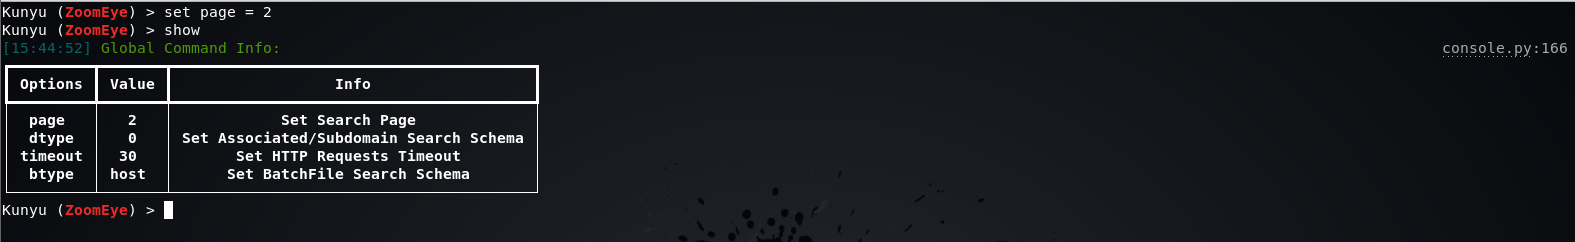
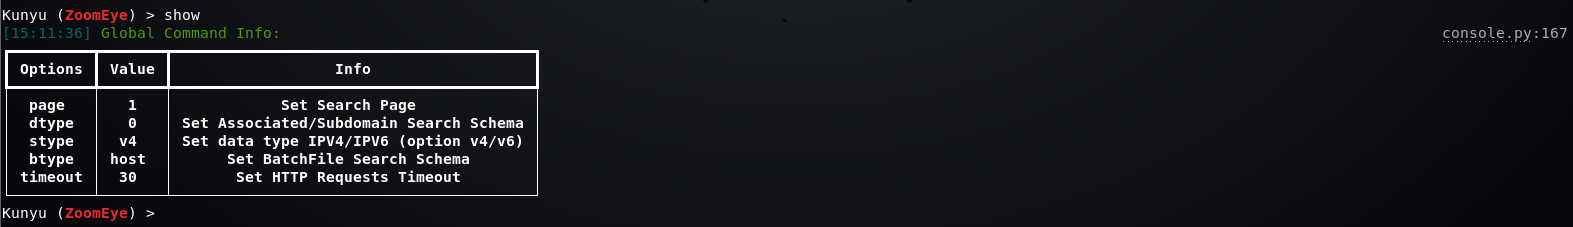
Update Kunyu Version V1.6.1

diff --git a/kunyu/core/zoomeye.py b/kunyu/core/zoomeye.py
@@ -49,6 +49,7 @@ class ZoomeyeSearch(object):
     def __init__(self, method):
         self.auth = None
         self.search = None
+        self.stype = None
         self.page = 1
         self.method = method
         self.headers = {
@@ -61,6 +62,7 @@ class ZoomeyeSearch(object):
             nonlocal func
             req_list = []
             login_url = func(self, *args, **kwargs)
+            params["sub_type"] = self.stype
             try:
                 for num in range(int(self.page)):
                     params['query'], params['page'] = self.search, (num + 1)
@@ -133,7 +135,7 @@ class ZoomeyeSearch(object):
 
 # After the SDK public,The interface to get the data.
 @ZoomeyeSearch(method="GET")
-def _dork_search(self, url, search, page):
+def _dork_search(self, url, search, page, sub_type):
     """"The logic layer of ZoomEye processes the requested data
         and feeds it back to the request layer to obtain the original data
     """
@@ -142,6 +144,7 @@ def _dork_search(self, url, search, page):
             raise ArithmeticError
         self.page = page
         self.search = search
+        self.stype = sub_type.lower()
         return url
 
     except ArithmeticError:
@@ -169,9 +172,11 @@ class ZoomEye:
     from kunyu.config.setting import ZOOMEYE_FIELDS_HOST, ZOOMEYE_FIELDS_WEB, ZOOMEYE_FIELDS_INFO, ZOOMEYE_FIELDS_DOMAIN
     from kunyu.utils.convert import convert
     raw_data_params = {}
+    ssl_data_params = {}
     sensitive_params = []
     page = 1
     dtype = 0
+    stype = "v4"
     btype = "host"
     timeout = 30
 
@@ -188,7 +193,7 @@ class ZoomEye:
         HostCrash <IP> <Domain>                   Host Header Scan hidden assets
         Seebug <query>                            Search Seebug vulnerability information
         set <option>                              Set Global arguments values
-        view <ID>                                 Look over banner row data information
+        view/views <ID>                           Look over banner row data information
         SearchKeyWord                             Query sensitive information by keyword
         Pocsuite3                                 Invoke the pocsuite component
         ExportPath                                Returns the path of the output file
@@ -199,8 +204,8 @@ class ZoomEye:
 
     # ZoomEye Command List
     Command_Info = ["help", "info", "set", "Seebug", "SearchWeb", "SearchHost", "SearchIcon", "HostCrash", "SearchBatch",
-                    "SearchCert", "SearchDomain", "EncodeHash", "Pocsuite3", "ExportPath", "show", "clear", "view", "SearchKeyWord",
-                    "exit"]
+                    "SearchCert", "SearchDomain", "EncodeHash", "Pocsuite3", "ExportPath", "show", "clear", "view", "views",
+                    "SearchKeyWord", "exit"]
 
     def __init__(self):
         self.fields_tables = None
@@ -212,6 +217,7 @@ class ZoomEye:
             :param types: Dynamically set according to the interface used
         """
         self.raw_data_params.clear()
+        self.ssl_data_params.clear()
         self.sensitive_params.clear()
         GlobalVar.set_timeout_resp(self.timeout)
         table = Table(show_header=True, style="bold")
@@ -238,17 +244,21 @@ class ZoomEye:
             return logger.warning("Please enter the correct field")
 
         # Get data information
-        for result in _dork_search(api_url, search, self.page):
+        for result in _dork_search(api_url, search, self.page, self.stype):
             try:
                 total = result['total']
                 webapp_name, server_name, db_name, system_os, language = "", "", "", "", ""
                 for i in range(len(result[result_type])):
                     num += 1
-                    title, lat, lon = "", "", ""
+                    title, data_isp = "", ""
                     data = self.convert(result[result_type][i])
                     if api_url == HOST_SEARCH_API:
                         if data.portinfo.title:
                             title = data.portinfo.title[0]
+                        try:
+                            data_isp = data.geoinfo.isp
+                        except:
+                            pass
                         """
                         if data.geoinfo.location:
                             lat = data.geoinfo.location.lat
@@ -256,16 +266,23 @@ class ZoomEye:
                         """
                         # Set the output field
                         table.add_row(str(num), data.ip, str(data.portinfo.port), str(data.portinfo.service),
-                                      str(data.portinfo.app), str(data.geoinfo.isp), str(data.geoinfo.country.names.en),
+                                      str(data.portinfo.app), str(data_isp), str(data.geoinfo.country.names.en),
                                       str(data.geoinfo.city.names.en), str(title), str(data.timestamp).split("T")[0])
 
                         # Set the exported fields
                         export_host = [str(num), data.ip, str(data.portinfo.port), str(data.portinfo.service),
-                                       str(data.portinfo.app), str(data.geoinfo.isp), str(data.geoinfo.country.names.en),
+                                       str(data.portinfo.app), str(data_isp), str(data.geoinfo.country.names.en),
                                        str(data.geoinfo.city.names.en), str(title), str(data.timestamp).split("T")[0]]
 
                         # Reset the <raw Data Params> element
                         self.raw_data_params[num] = data.portinfo.banner
+
+                        # Reset the <ssl raw Data Params> element
+                        try:
+                            ssl_raw_data = data.ssl
+                            self.ssl_data_params[num] = ssl_raw_data
+                        except:
+                            pass
 
                         # Get the sensitive information in the banner
                         sensitive = SearchKeyWord().get_keyword_sensitive(data.portinfo.banner)
@@ -300,6 +317,13 @@ class ZoomEye:
 
                         # Reset the <raw Data Params> element
                         self.raw_data_params[num] = data.raw_data
+
+                        # Reset the <ssl raw Data Params> element
+                        try:
+                            ssl_raw_data = data.ssl
+                            self.ssl_data_params[num] = ssl_raw_data
+                        except:
+                            pass
 
                         # Get the sensitive information in the banner
                         sensitive = SearchKeyWord().get_keyword_sensitive(data.raw_data)
@@ -483,10 +507,34 @@ class ZoomEye:
             else:
                 console.log("Banner Information is:\n", style="green")
                 console.print(raw_data)
-
+                print()
         except ArithmeticError:
             logger.warning("No retrieval operation is performed or the length of the dictionary key value is exceeded")
             return
+
+    @classmethod
+    # look over ssl row_data info
+    def command_views(cls, serial):
+        """
+            View ssl raw data information
+            You can views any ssl raw data by entering the serial number
+            :param serial): Please enter serial number ID
+        """
+        try:
+            # If the key parameter is not specified, the key parameter is automatically set to 1
+            serials = 1 if serial is "" else serial
+            ssl_raw_data = cls.ssl_data_params.get(int(serials))
+            # Check whether the returned result is None
+            if ssl_raw_data is None:
+                raise ArithmeticError
+            else:
+                console.log("SSL Banner Information is:\n", style="green")
+                console.print(ssl_raw_data)
+                print()
+        except ArithmeticError:
+            logger.warning("SSL Banner information is empty")
+            return
+        pass
 
     @classmethod
     def command_searchkeyword(cls, *args, **kwargs):

diff --git a/kunyu/core/console.py b/kunyu/core/console.py
@@ -157,8 +157,9 @@ class BaseInterpreter(object):
                 )
             command_info = [["page", self.getter("page"),"Set Search Page"],
                             ["dtype", self.getter("dtype"), "Set Associated/Subdomain Search Schema"],
-                            ["timeout", self.getter("timeout"), "Set HTTP Requests Timeout"],
-                            ["btype", self.getter("btype"), "Set BatchFile Search Schema"]]
+                            ["stype", self.getter("stype"), "Set data type IPV4/IPV6 (option v4/v6)"],
+                            ["btype", self.getter("btype"), "Set BatchFile Search Schema"],
+                            ["timeout", self.getter("timeout"), "Set HTTP Requests Timeout"]]
             for info in command_info:
                 table.add_row(
                     str(info[0]), str(info[1]), str(info[2])
@@ -172,8 +173,11 @@ class BaseInterpreter(object):
             return True
 
         elif command in OS_SYSTEM:
-            command_os = "{} {}".format(command, line)
-            os.system(command_os)
+            try:
+                command_os = "{} {}".format(command, line)
+                os.system(command_os)
+            except KeyboardInterrupt:
+                print("")
             return True
 
         return False
@@ -202,7 +206,7 @@ class BaseInterpreter(object):
                 sys.exit(0)
 
             except Exception as err:
-                console.print(err)
+                # console.print(err)
                 continue
 
 

diff --git a/kunyu/config/__version__.py b/kunyu/config/__version__.py
@@ -15,7 +15,7 @@ __license__ = 'GPL-2.0'
 __python_version__ = sys.version.split()[0]
 __platform__ = platform.platform()
 __url__ = "https://github.com/knownsec/Kunyu"
-__version__ = '1.6.0'
+__version__ = '1.6.1'
 __author__ = '风起'
 __Team__ = 'KnownSec 404 Team'
 __author_email__ = 'onlyzaliks@gmail.com'

diff --git a/README.md b/README.md
@@ -93,7 +93,7 @@ Global commands:
         HostCrash <IP> <Domain>                   Host Header Scan hidden assets
         Seebug <query>                            Search Seebug vulnerability information
         set <option>                              Set Global arguments values
-        view <ID>                                 Look over banner row data information
+        view/views <ID>                           Look over http/ssl row data information
         SearchKeyWord                             Query sensitive information by keyword
         Pocsuite3                                 Invoke the pocsuite component
         ExportPath                                Returns the path of the output file
@@ -109,8 +109,9 @@ Global commands:
 ZoomEye:
 	page <Number>    				The number of pages returned by the query
 	dtype <0/1>      				Query associated domain name/subdomain name
+	stype <v4/v6>					stype <v4/v6> Set to get data type IPV4 or IPV6
 	btype <host/web> 				Set the API interface for batch query
-	timeout <num>					Set the timeout period of Kunyu HTTP request 
+	timeout <num>					Set the timeout period of Kunyu HTTP request
 ```
 
 ## Use case introduction
@@ -171,6 +172,14 @@ Command format: **SearchDomain Domain**
 
 ![](./images/searchdomain.png)
 
+**Set the type of data to be obtained**
+
+After the V1.6.1 version, the user can set the data type obtained through the stype parameter to IPV4 or IPV6 to realize the application scenario, and the default parameter is v4.
+
+Command format: **set stype = v6**
+
+![](./images/stype.png)
+
 **View Banner Information** 
 
 The user can view the banner corresponding to the specified serial number through the view command, so as to further analyze the front-end code and Header header, and the user can intercept the banner information for further association matching. 
@@ -178,6 +187,12 @@ The user can view the banner corresponding to the specified serial number throug
 Command format: **view ID** 
 
 ![](./images/view.png)
+
+The user can also view the SSL certificate information of the specified serial number through the views command, and further associate it by extracting the sensitive information in the SLL certificate information.
+
+Command format: **views ID**
+
+![](./images/views.png)
 
 **Collection of Sensitive Information** 
 
@@ -363,7 +378,7 @@ It is recommended to use Python3.2-3.9 version, other versions of Python3 may ha
 Kunyu has joined [404Starlink](https://github.com/knownsec/404StarLink)
 
 
-# 0x07 Community
+# 0x08 Community
 
 If you have any questions, you can submit an issue under the project, or contact us through the following methods.
 

diff --git a/doc/README_CN.md b/doc/README_CN.md
@@ -94,7 +94,7 @@ Global commands:
         HostCrash <IP> <Domain>                   Host Header Scan hidden assets
         Seebug <query>                            Search Seebug vulnerability information
         set <option>                              Set Global arguments values
-        view <ID>                                 Look over banner row data information
+        view/views <ID>                           Look over http/ssl row data information
         SearchKeyWord                             Query sensitive information by keyword
         Pocsuite3                                 Invoke the pocsuite component
         ExportPath                                Returns the path of the output file
@@ -110,6 +110,7 @@ Global commands:
 ZoomEye:
 	page <Number>    查询返回页数(默认查询一页，每页20条数据)
 	dtype <0/1>      查询关联域名/子域名(设置0为查询关联域名，反之为子域名)
+	stype <v4/v6>	 设置获取数据类型IPV4或IPV6，默认为 ipv4,ipv6 全选
 	btype <host/web> 设置批量查询的API接口(默认为HOST)
 	timeout <num>	 设置Kunyu HTTP请求的超时时间
 ```
@@ -172,6 +173,14 @@ SearchIcon /root/favicon.ico
 
 ![](../images/searchdomain.png)
 
+**设置获取数据类型**
+
+在V1.6.1版本后，用户可以通过stype参数设置获取的数据类型为IPV4或者IPV6，实现应用场景，默认参数为v4。
+
+命令格式：**set stype = v6**
+
+![](../images/stype.png)
+
 **查看Banner信息**
 
 用户可以通过view命令查看指定序号对应信息的Banner，从而进一步分析前端代码及Header头，用户可以截取banner信息进一步的关联匹配。
@@ -179,6 +188,12 @@ SearchIcon /root/favicon.ico
 命令格式: **view ID**
 
 ![](../images/view.png)
+
+用户也可以通过views命令查看指定序号的SSL证书信息，通过提取SLL证书信息中的敏感信息进一步关联。
+
+命令格式：**views ID**
+
+![](../images/views.png)
 
 **敏感信息收集**
 
